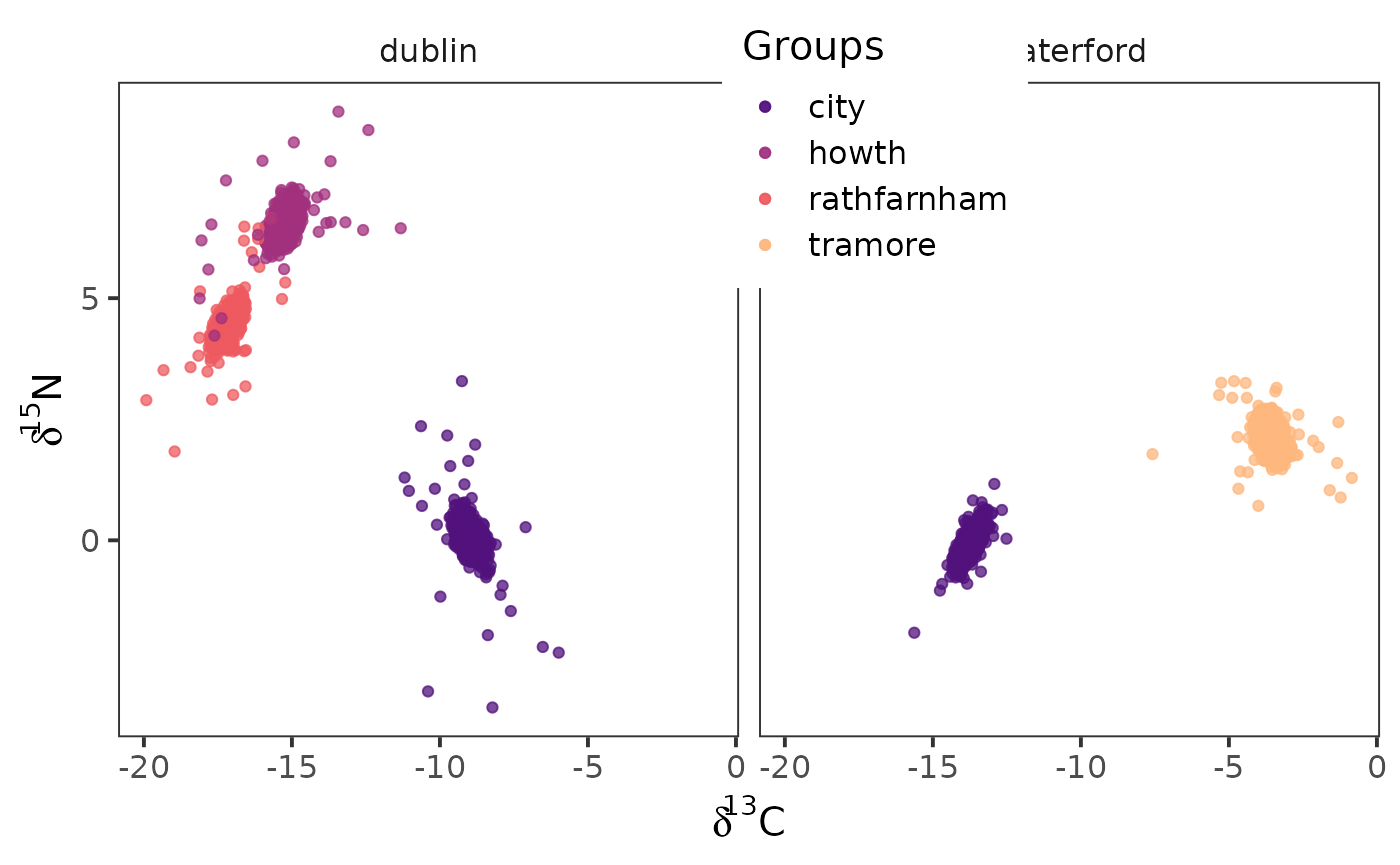
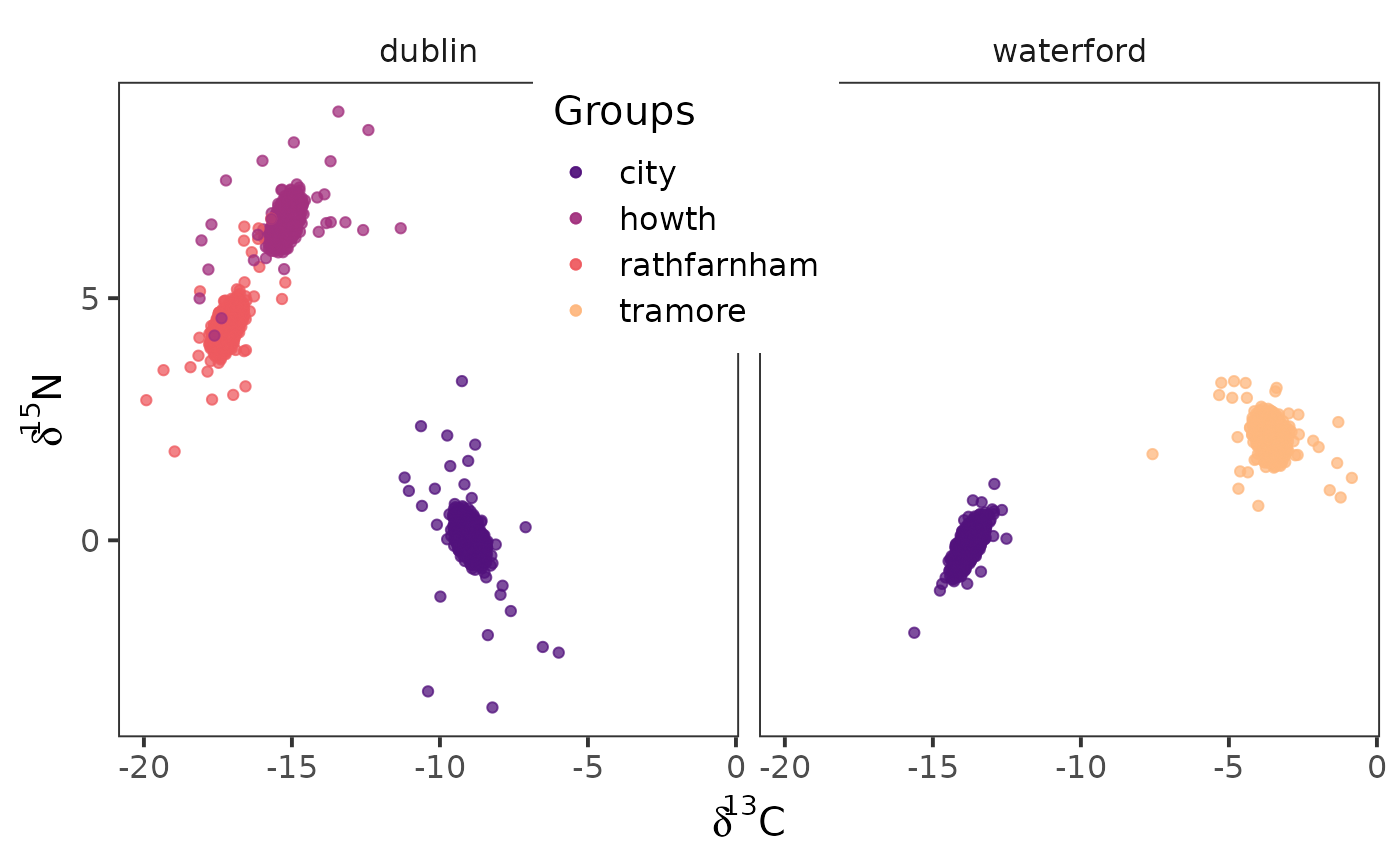
Deploying to gh-pages from @ benjaminhlina/nichetools@62e192d3b8dcf9b02d6bf226d9848fee06eb6be7 🚀

diff --git a/articles/using-nichetools-with-the-package-SIBER.html b/articles/using-nichetools-with-the-package-SIBER.html
@@ -199,7 +199,7 @@ stucture.</p>
 <span>    strip.background <span class="op">=</span> <span class="fu"><a href="https://ggplot2.tidyverse.org/reference/element.html" class="external-link">element_blank</a></span><span class="op">(</span><span class="op">)</span>,</span>
 <span>    panel.grid <span class="op">=</span> <span class="fu"><a href="https://ggplot2.tidyverse.org/reference/element.html" class="external-link">element_blank</a></span><span class="op">(</span><span class="op">)</span>, </span>
 <span>    legend.position <span class="op">=</span> <span class="st">"inside"</span>,</span>
-<span>    legend.position.inside <span class="op">=</span> <span class="fu"><a href="https://rdrr.io/r/base/c.html" class="external-link">c</a></span><span class="op">(</span><span class="fl">0.6</span>, <span class="fl">0.9</span><span class="op">)</span></span>
+<span>    legend.position.inside <span class="op">=</span> <span class="fu"><a href="https://rdrr.io/r/base/c.html" class="external-link">c</a></span><span class="op">(</span><span class="fl">0.45</span>, <span class="fl">0.8</span><span class="op">)</span></span>
 <span>  <span class="op">)</span> <span class="op">+</span> </span>
 <span>  <span class="fu"><a href="https://ggplot2.tidyverse.org/reference/labs.html" class="external-link">labs</a></span><span class="op">(</span></span>
 <span>    x <span class="op">=</span> <span class="fu"><a href="https://rdrr.io/r/base/expression.html" class="external-link">expression</a></span><span class="op">(</span><span class="fu"><a href="https://rdrr.io/r/base/paste.html" class="external-link">paste</a></span><span class="op">(</span><span class="va">delta</span><span class="op">^</span><span class="fl">13</span>,<span class="st">"C"</span><span class="op">)</span><span class="op">)</span>, </span>
@@ -307,7 +307,7 @@ are correct by plotting them with {ggplot2}</p>
 <span>    strip.background <span class="op">=</span> <span class="fu"><a href="https://ggplot2.tidyverse.org/reference/element.html" class="external-link">element_blank</a></span><span class="op">(</span><span class="op">)</span>,</span>
 <span>    panel.grid <span class="op">=</span> <span class="fu"><a href="https://ggplot2.tidyverse.org/reference/element.html" class="external-link">element_blank</a></span><span class="op">(</span><span class="op">)</span>, </span>
 <span>    legend.position <span class="op">=</span> <span class="st">"inside"</span>,</span>
-<span>    legend.position.inside <span class="op">=</span> <span class="fu"><a href="https://rdrr.io/r/base/c.html" class="external-link">c</a></span><span class="op">(</span><span class="fl">0.6</span>, <span class="fl">0.9</span><span class="op">)</span></span>
+<span>    legend.position.inside <span class="op">=</span> <span class="fu"><a href="https://rdrr.io/r/base/c.html" class="external-link">c</a></span><span class="op">(</span><span class="fl">0.45</span>, <span class="fl">0.8</span><span class="op">)</span></span>
 <span>  <span class="op">)</span> <span class="op">+</span> </span>
 <span>  <span class="fu"><a href="https://ggplot2.tidyverse.org/reference/labs.html" class="external-link">labs</a></span><span class="op">(</span></span>
 <span>    x <span class="op">=</span> <span class="fu"><a href="https://rdrr.io/r/base/expression.html" class="external-link">expression</a></span><span class="op">(</span><span class="fu"><a href="https://rdrr.io/r/base/paste.html" class="external-link">paste</a></span><span class="op">(</span><span class="va">delta</span><span class="op">^</span><span class="fl">13</span>,<span class="st">"C"</span><span class="op">)</span><span class="op">)</span>, </span>
@@ -318,6 +318,18 @@ are correct by plotting them with {ggplot2}</p>
 with the corresponding colours. This indicates that how the model is
 iterating over the groups and communities we have the nameing of
 commnites and groups correct.</p>
+<p>We are also going to extract
+<math display="inline" xmlns="http://www.w3.org/1998/Math/MathML"><semantics><mi>μ</mi><annotation encoding="application/x-tex">\mu</annotation></semantics></math>
+in long format for creating ellipse, as the functions that create
+ellipse need the data frame of
+<math display="inline" xmlns="http://www.w3.org/1998/Math/MathML"><semantics><mi>μ</mi><annotation encoding="application/x-tex">\mu</annotation></semantics></math>
+to be in long format.</p>
+<div class="sourceCode" id="cb15"><pre class="downlit sourceCode r">
+<code class="sourceCode R"><span><span class="va">df_mu_long</span> <span class="op">&lt;-</span> <span class="fu"><a href="../reference/extract_mu.html">extract_mu</a></span><span class="op">(</span><span class="va">ellipses_posterior</span>, pkg <span class="op">=</span> <span class="st">"SIBER"</span><span class="op">)</span> <span class="op"><a href="https://magrittr.tidyverse.org/reference/pipe.html" class="external-link">%&gt;%</a></span> </span>
+<span>  <span class="fu"><a href="https://tidyr.tidyverse.org/reference/separate_wider_delim.html" class="external-link">separate_wider_delim</a></span><span class="op">(</span><span class="va">sample_name</span>, cols_remove <span class="op">=</span> <span class="cn">FALSE</span>,</span>
+<span>                       delim <span class="op">=</span> <span class="st">"."</span>, names <span class="op">=</span> <span class="fu"><a href="https://rdrr.io/r/base/c.html" class="external-link">c</a></span><span class="op">(</span><span class="st">"community_id"</span>,</span>
+<span>                                              <span class="st">"group_id"</span><span class="op">)</span><span class="op">)</span> <span class="op"><a href="https://magrittr.tidyverse.org/reference/pipe.html" class="external-link">%&gt;%</a></span></span>
+<span>  <span class="fu"><a href="https://dplyr.tidyverse.org/reference/mutate-joins.html" class="external-link">left_join</a></span><span class="op">(</span><span class="va">cg_names</span><span class="op">)</span></span></code></pre></div>
 </div>
   </main><aside class="col-md-3"><nav id="toc" aria-label="Table of contents"><h2>On this page</h2>
     </nav></aside>
